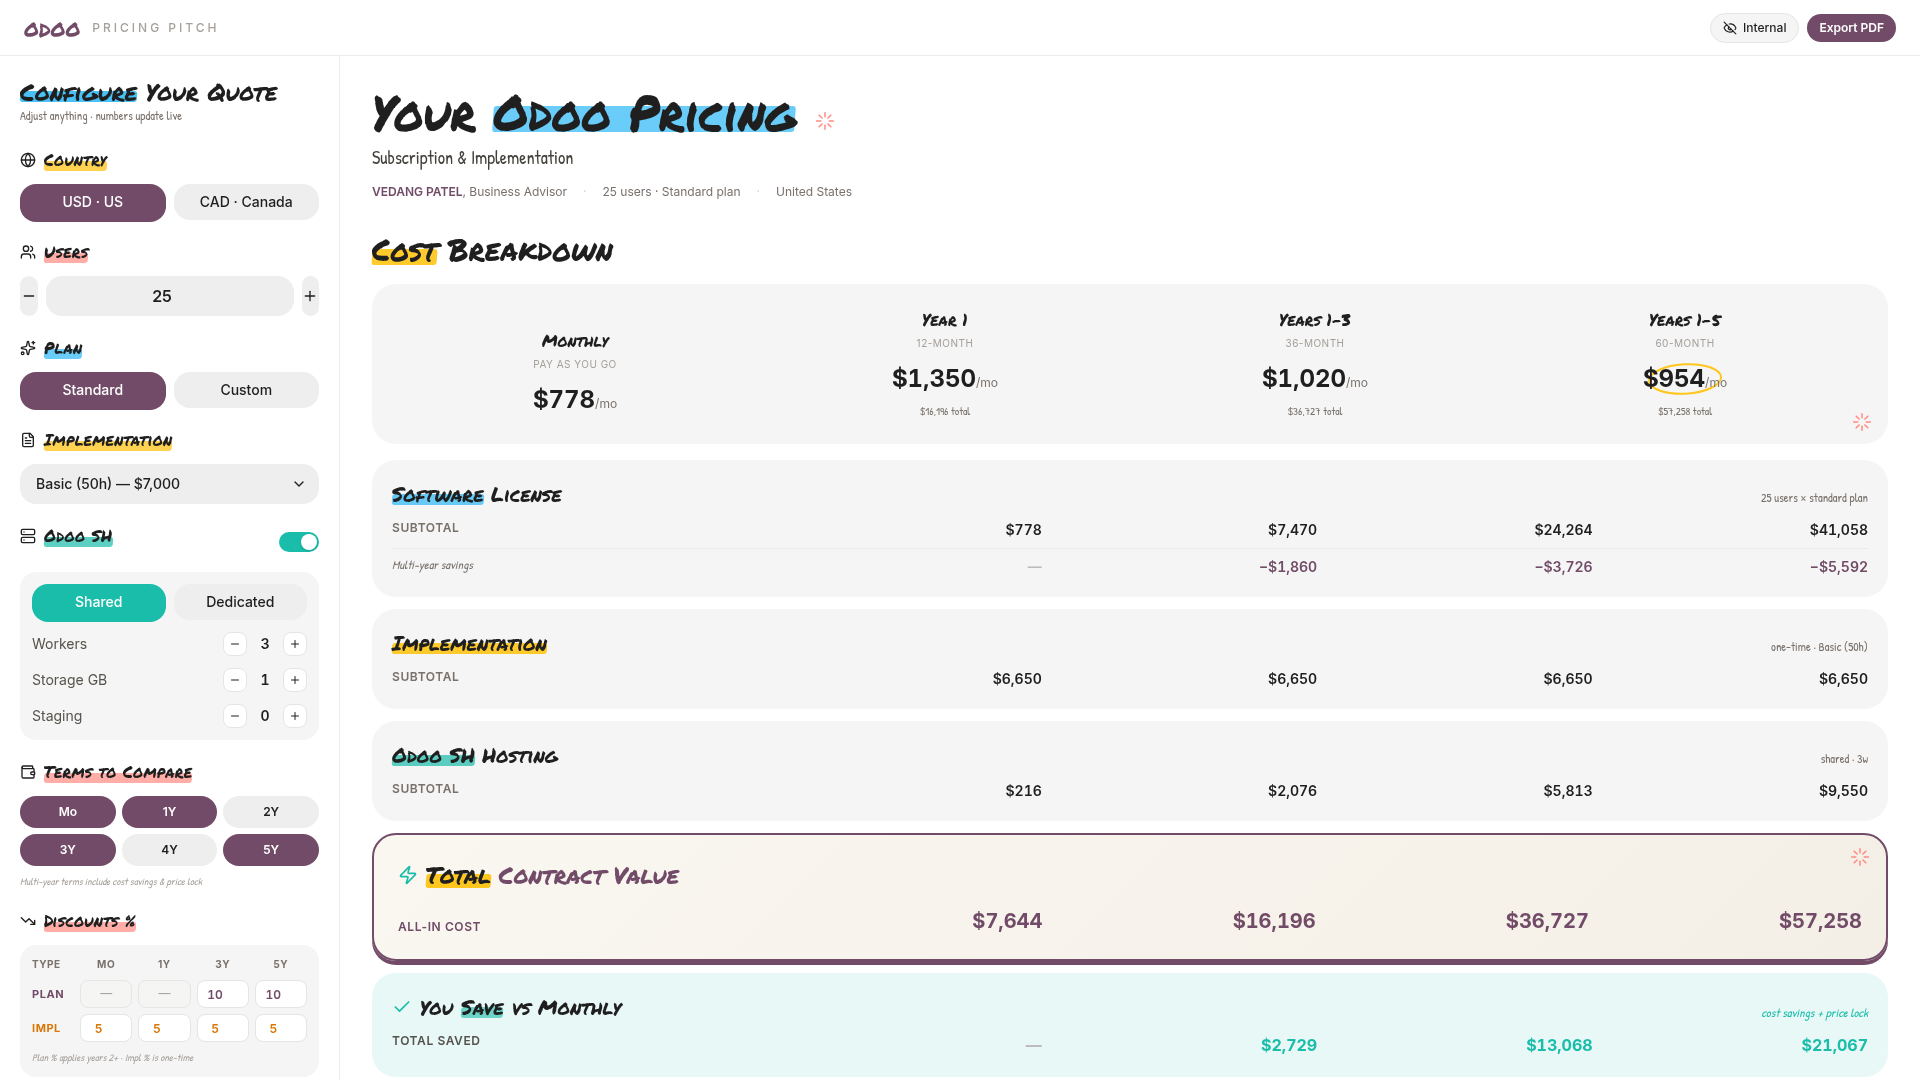
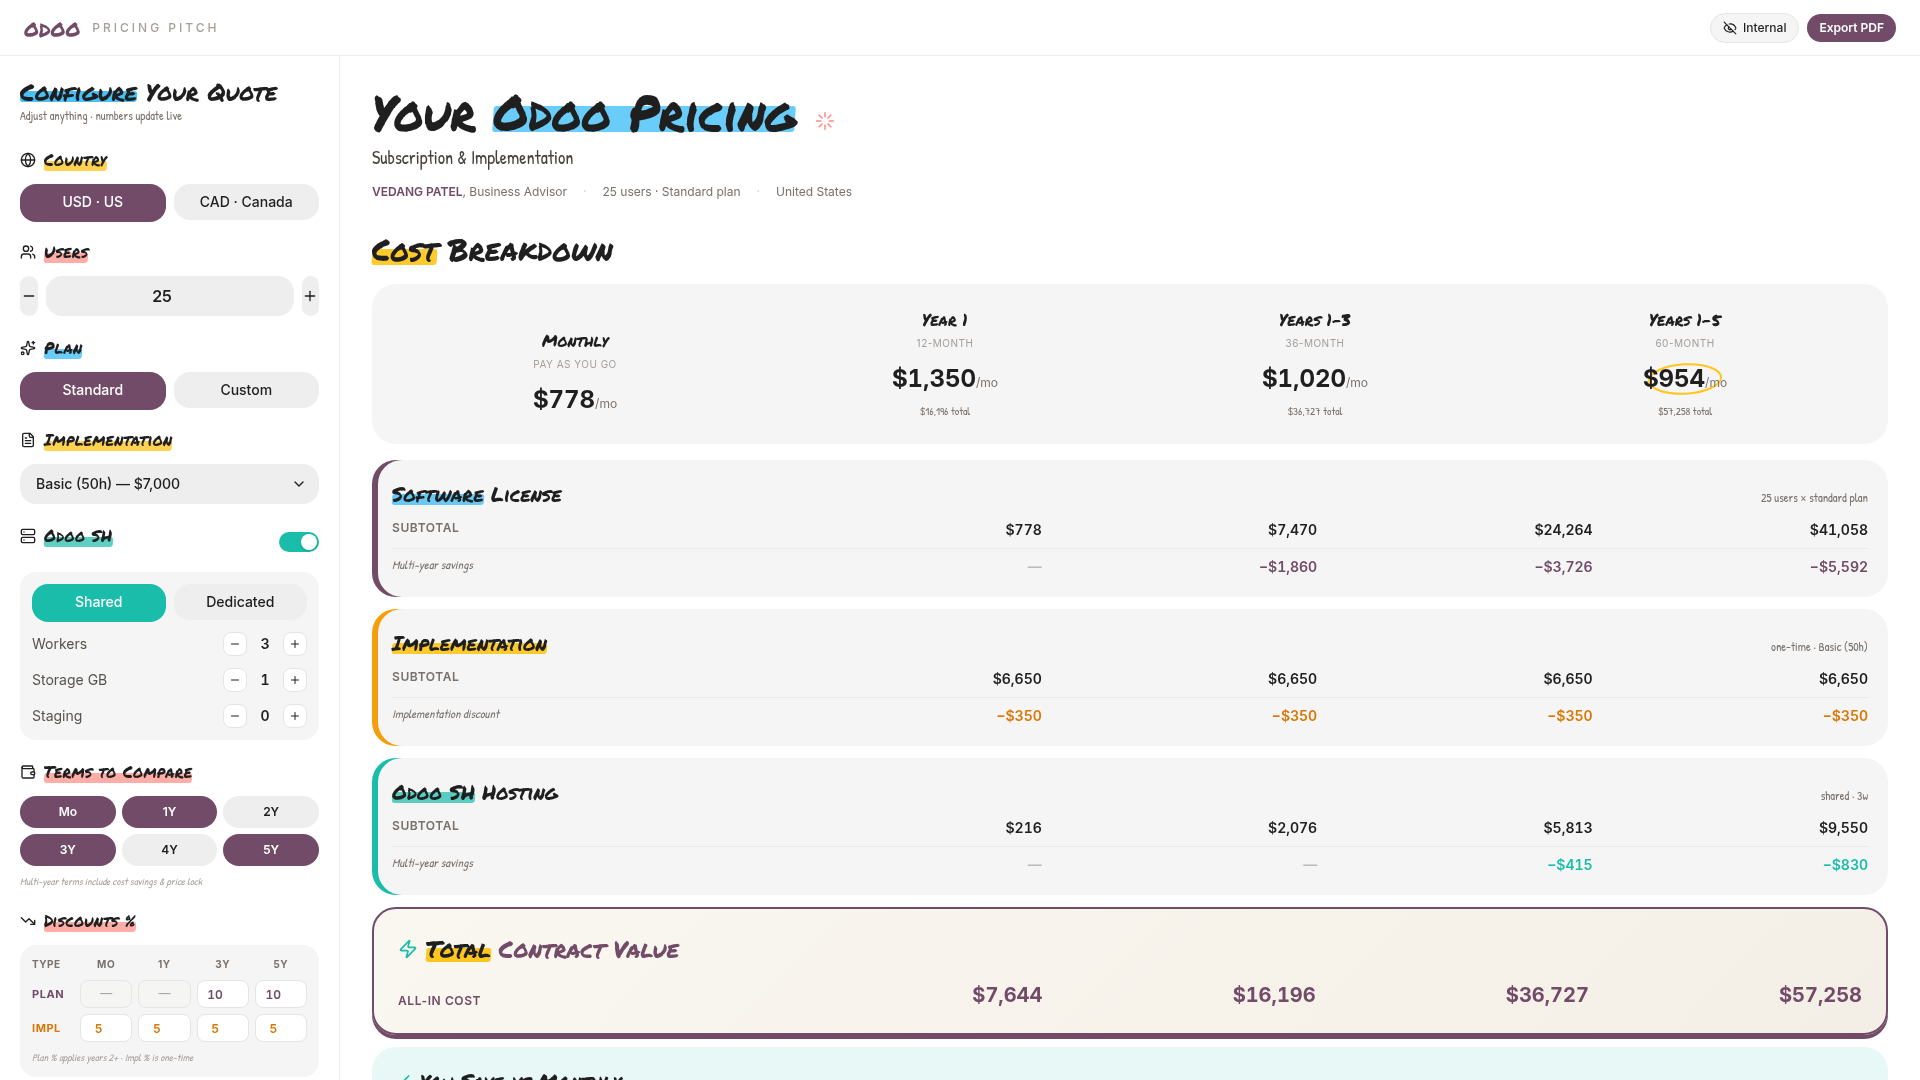
Improve quote breakdown clarity with enhanced discount visibility and visual distinction
Adds multi-year savings rows to Implementation and SH Hosting sections, applies distinct color tints to cost component cards, and removes distracting sparkle elements for better visual hierarchy.

Replit-Commit-Author: Agent
Replit-Commit-Session-Id: 3d8e539f-c7fe-4d8f-8fbb-2aa09cfe4ce4
Replit-Commit-Checkpoint-Type: full_checkpoint
Replit-Commit-Event-Id: a38d327c-cc9f-482b-94e5-f61aea2314b5
Replit-Commit-Screenshot-Url: https://storage.googleapis.com/screenshot-production-us-central1/c086b602-bdac-43aa-948f-36a5edc0eb58/3d8e539f-c7fe-4d8f-8fbb-2aa09cfe4ce4/GEhN2us
Replit-Helium-Checkpoint-Created: true

diff --git a/artifacts/mockup-sandbox/src/components/mockups/odoo-calculator/InvestmentBrandPitch.tsx b/artifacts/mockup-sandbox/src/components/mockups/odoo-calculator/InvestmentBrandPitch.tsx
@@ -780,16 +780,19 @@ export function InvestmentBrandPitch() {
                   );
                 })}
               </div>
-              <div className="absolute bottom-3 right-4">
-                <Sparkle color={BRAND.coral} />
-              </div>
             </div>
 
             {/* Detailed breakdown — grey cards per cost component */}
             <div className="space-y-3">
 
               {/* Software License row */}
-              <div className="rounded-3xl p-5" style={{ background: BRAND.cardAlt }}>
+              <div
+                className="rounded-3xl p-5"
+                style={{
+                  background: BRAND.cardAlt,
+                  boxShadow: `inset 6px 0 0 ${BRAND.purple}`,
+                }}
+              >
                 <div className="flex items-baseline justify-between mb-3">
                   <h3 className="text-xl" style={{ fontFamily: FONT_BRUSH, color: BRAND.ink }}>
                     <Marker color={BRAND.blue} opacity={0.7} height="40%">Software</Marker> License
@@ -822,7 +825,13 @@ export function InvestmentBrandPitch() {
 
               {/* Implementation row */}
               {implPrice > 0 && (
-                <div className="rounded-3xl p-5" style={{ background: BRAND.cardAlt }}>
+                <div
+                  className="rounded-3xl p-5"
+                  style={{
+                    background: BRAND.cardAlt,
+                    boxShadow: `inset 6px 0 0 #F59E0B`,
+                  }}
+                >
                   <div className="flex items-baseline justify-between mb-3">
                     <h3 className="text-xl" style={{ fontFamily: FONT_BRUSH, color: BRAND.ink }}>
                       <Marker color={BRAND.yellow} opacity={0.85} height="40%">Implementation</Marker>
@@ -839,12 +848,30 @@ export function InvestmentBrandPitch() {
                       </div>
                     ))}
                   </div>
+                  {quotes.some((q) => q.implDiscount > 0) && (
+                    <div className="mt-2 pt-2 border-t border-stone-200/70 grid gap-2" style={{ gridTemplateColumns: `1.4fr repeat(${quotes.length}, 1fr)` }}>
+                      <span className="text-xs text-stone-500 italic" style={{ fontFamily: FONT_HAND }}>
+                        Implementation discount
+                      </span>
+                      {quotes.map((q) => (
+                        <div key={q.termKey} className="text-right tabular-nums text-sm font-semibold" style={{ color: "#D97706" }}>
+                          {q.implDiscount > 0 ? `−${fmt0(q.implDiscount)}` : dash}
+                        </div>
+                      ))}
+                    </div>
+                  )}
                 </div>
               )}
 
               {/* SH row */}
               {shEnabled && (
-                <div className="rounded-3xl p-5" style={{ background: BRAND.cardAlt }}>
+                <div
+                  className="rounded-3xl p-5"
+                  style={{
+                    background: BRAND.cardAlt,
+                    boxShadow: `inset 6px 0 0 ${BRAND.teal}`,
+                  }}
+                >
                   <div className="flex items-baseline justify-between mb-3">
                     <h3 className="text-xl" style={{ fontFamily: FONT_BRUSH, color: BRAND.ink }}>
                       <Marker color={BRAND.teal} opacity={0.7} height="40%">Odoo SH</Marker> Hosting
@@ -861,6 +888,18 @@ export function InvestmentBrandPitch() {
                       </div>
                     ))}
                   </div>
+                  {quotes.some((q) => q.shMultiYear > 0) && (
+                    <div className="mt-2 pt-2 border-t border-stone-200/70 grid gap-2" style={{ gridTemplateColumns: `1.4fr repeat(${quotes.length}, 1fr)` }}>
+                      <span className="text-xs text-stone-500 italic" style={{ fontFamily: FONT_HAND }}>
+                        Multi-year savings
+                      </span>
+                      {quotes.map((q) => (
+                        <div key={q.termKey} className="text-right tabular-nums text-sm font-semibold" style={{ color: BRAND.teal }}>
+                          {q.shMultiYear > 0 ? `−${fmt0(q.shMultiYear)}` : dash}
+                        </div>
+                      ))}
+                    </div>
+                  )}
                 </div>
               )}
 
@@ -873,9 +912,6 @@ export function InvestmentBrandPitch() {
                   boxShadow: `0 4px 0 ${BRAND.purple}`,
                 }}
               >
-                <div className="absolute top-3 right-4">
-                  <Sparkle color={BRAND.coral} />
-                </div>
                 <div className="flex items-baseline justify-between mb-4">
                   <h3 className="text-2xl flex items-center gap-2" style={{ fontFamily: FONT_BRUSH, color: BRAND.ink }}>
                     <Zap className="w-5 h-5" style={{ color: BRAND.teal }} />
